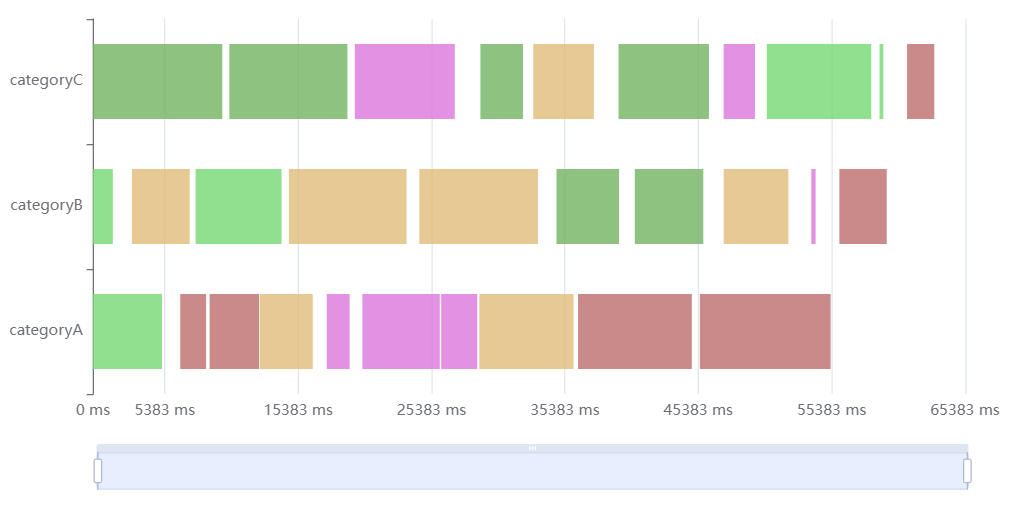
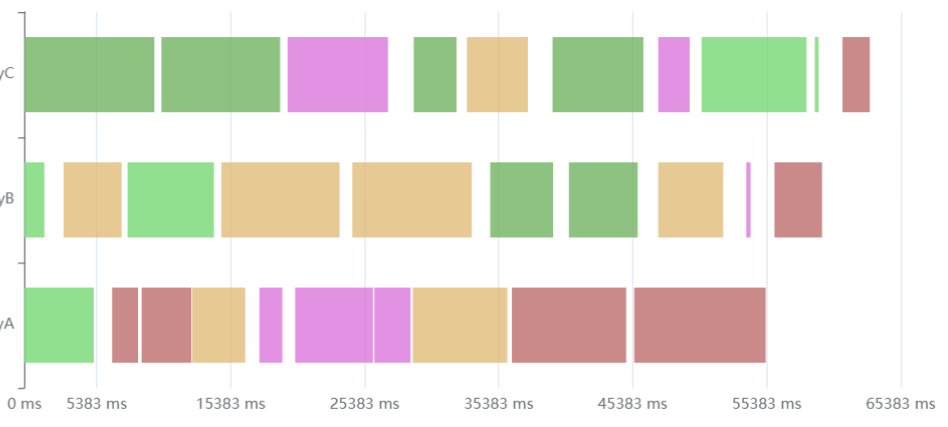
fix: issues and errors for profile timeline

diff --git a/superset-frontend/plugins/plugin-chart-echarts/src/ProfileTimeline/controlPanel.ts b/superset-frontend/plugins/plugin-chart-echarts/src/ProfileTimeline/controlPanel.ts
@@ -1,11 +1,5 @@
 import { t } from '@superset-ui/core';
-import {
-  ControlPanelConfig,
-  sections,
-  sharedControls,
-} from '@superset-ui/chart-controls';
-
-console.log('sections', sections);
+import { ControlPanelConfig, sections } from '@superset-ui/chart-controls';
 
 const config: ControlPanelConfig = {
   controlPanelSections: [
@@ -13,115 +7,8 @@ const config: ControlPanelConfig = {
     {
       label: t('Columns'),
       expanded: true,
-      controlSetRows: [
-        ['granularity'],
-        // ['time_range'],
-        ['columns'], // <-- Ensure this is included
-      ],
-      //   controlSetRows: [
-      //     [
-      //       {
-      //         name: 'category_column',
-      //         config: {
-      //           type: 'SelectControl',
-      //           label: t('Category Column'),
-      //           description: t('Column for category (Y-axis)'),
-      //           clearable: false,
-      //           valueKey: 'column_name',
-      //           labelKey: 'column_name',
-      //           default: null,
-      //           mapStateToProps: state => {
-      //             const columns = state.datasource?.columns ?? [];
-      //             return {
-      //               options: columns.map(col => ({
-      //                 value: col.column_name,
-      //                 label: col.column_name,
-      //               })),
-      //             };
-      //           },
-      //         },
-      //       },
-      //     ],
-      //     [
-      //       {
-      //         name: 'start_column',
-      //         config: {
-      //           type: 'SelectControl',
-      //           label: t('Start Time Column'),
-      //           description: t('Column for start timestamp'),
-      //           clearable: false,
-      //           valueKey: 'column_name',
-      //           labelKey: 'column_name',
-      //           default: null,
-      //           mapStateToProps: state => {
-      //             const columns = state.datasource?.columns ?? [];
-      //             return {
-      //               options: columns.map(col => ({
-      //                 value: col.column_name,
-      //                 label: col.column_name,
-      //               })),
-      //             };
-      //           },
-      //         },
-      //       },
-      //     ],
-      //     [
-      //       {
-      //         name: 'end_column',
-      //         config: {
-      //           type: 'SelectControl',
-      //           label: t('End Time Column'),
-      //           description: t('Column for end timestamp'),
-      //           clearable: false,
-      //           valueKey: 'column_name',
-      //           labelKey: 'column_name',
-      //           default: null,
-      //           mapStateToProps: state => {
-      //             const columns = state.datasource?.columns ?? [];
-      //             return {
-      //               options: columns.map(col => ({
-      //                 value: col.column_name,
-      //                 label: col.column_name,
-      //               })),
-      //             };
-      //           },
-      //         },
-      //       },
-      //     ],
-      //     [
-      //       {
-      //         name: 'type_column',
-      //         config: {
-      //           type: 'SelectControl',
-      //           label: t('Type Column'),
-      //           description: t('Column for colored type label'),
-      //           clearable: false,
-      //           valueKey: 'column_name',
-      //           labelKey: 'column_name',
-      //           default: null,
-      //           mapStateToProps: state => {
-      //             const columns = state.datasource?.columns ?? [];
-      //             return {
-      //               options: columns.map(col => ({
-      //                 value: col.column_name,
-      //                 label: col.column_name,
-      //               })),
-      //             };
-      //           },
-      //         },
-      //       },
-      //     ],
-      //   ],
+      controlSetRows: [['granularity'], ['columns']],
     },
-    // sections.legendSection,
-    // {
-    //   label: t('Legend'),
-    //   expanded: true,
-    //   controlSetRows: [
-    //     [sharedControls.legendPosition],
-    //     [sharedControls.showLegend],
-    //   ],
-    // },
     sections.colorScheme,
   ],
   controlOverrides: {
@@ -129,7 +16,7 @@ const config: ControlPanelConfig = {
       label: t('Timeline Columns'),
       description: t('Columns to show in timeline'),
       multi: true,
-      validators: [], // add required if you want to force selection
+      validators: [],
     },
   },
 };

diff --git a/superset-frontend/plugins/plugin-chart-echarts/src/ProfileTimeline/transformProps.ts b/superset-frontend/plugins/plugin-chart-echarts/src/ProfileTimeline/transformProps.ts
@@ -1,47 +1,8 @@
 import { ChartProps, getCategoricalSchemeRegistry } from '@superset-ui/core';
 import * as echarts from 'echarts';
 
-const categories = ['categoryA', 'categoryB', 'categoryC'];
-const types = [
-  { name: 'JS Heap', color: '#7b9ce1' },
-  { name: 'Documents', color: '#bd6d6c' },
-  { name: 'Nodes', color: '#75d874' },
-  { name: 'Listeners', color: '#e0bc78' },
-  { name: 'GPU Memory', color: '#dc77dc' },
-  { name: 'GPU', color: '#72b362' },
-];
-const mockData = [
-  {
-    name: 'JS Heap',
-    value: [0, 1721400000000, 1721400005000, 5000],
-    itemStyle: { normal: { color: '#7b9ce1' } },
-  },
-  {
-    name: 'Documents',
-    value: [1, 1721400010000, 1721400013000, 3000],
-    itemStyle: { normal: { color: '#bd6d6c' } },
-  },
-  {
-    name: 'Nodes',
-    value: [2, 1721400020000, 1721400027000, 7000],
-    itemStyle: { normal: { color: '#75d874' } },
-  },
-  {
-    name: 'Listeners',
-    value: [0, 1721400030000, 1721400034000, 4000],
-    itemStyle: { normal: { color: '#e0bc78' } },
-  },
-  {
-    name: 'GPU Memory',
-    value: [1, 1721400040000, 1721400048000, 8000],
-    itemStyle: { normal: { color: '#dc77dc' } },
-  },
-  {
-    name: 'GPU',
-    value: [2, 1721400050000, 1721400052000, 2000],
-    itemStyle: { normal: { color: '#72b362' } },
-  },
-];
+const categories = ['cat_A', 'cat_B', 'cat_C'];
+
 const dataConverter = (
   data: {
     category_index: number;
@@ -119,7 +80,7 @@ export default function transformProps(chartProps: ChartProps) {
   const { columns, colorScheme } = formData;
 
   const data = queriesData[0]?.data || [];
-  console.log('queriesData', formData);
+
   if (!columns || columns.length === 0) {
     throw new Error('No columns selected');
   }
@@ -144,11 +105,12 @@ export default function transformProps(chartProps: ChartProps) {
       type: 'category',
       data: categories,
     },
+    // @ts-ignore
     series: [
       {
         name: 'Memory Profile',
         type: 'custom',
-        renderItem: renderItem,
+        renderItem,
         itemStyle: {
           opacity: 0.8,
         },

diff --git a/superset-frontend/plugins/plugin-chart-echarts/src/ProfileTimeline/ProfileTimeline.tsx b/superset-frontend/plugins/plugin-chart-echarts/src/ProfileTimeline/ProfileTimeline.tsx
@@ -1,9 +1,18 @@
-import React from 'react';
+import { useRef } from 'react';
 import { EchartsProps } from '../types';
 import Echart from '../components/Echart'; // Assuming you have a common Echart wrapper
 
 export default function ProfileTimelineChart(props: EchartsProps) {
   const { height, width, echartOptions } = props;
-  console.log('echartOptions', echartOptions);
-  return <Echart width={width} height={height} echartOptions={echartOptions} />;
+  const chartRef = useRef(null);
+  return (
+    <Echart
+      width={width}
+      height={height}
+      echartOptions={echartOptions}
+      refs={{
+        echartRef: chartRef,
+      }}
+    />
+  );
 }

diff --git a/superset-frontend/plugins/plugin-chart-echarts/src/ProfileTimeline/buildQuery.ts b/superset-frontend/plugins/plugin-chart-echarts/src/ProfileTimeline/buildQuery.ts
@@ -6,7 +6,6 @@ import {
 
 export default function buildQuery(formData: QueryFormData) {
   const { columns } = formData;
-  console.log('formDataformData', formData, columns);
   return buildQueryContext(formData, baseQueryObject => {
     const queryObj: QueryObject = {
       ...baseQueryObject,
